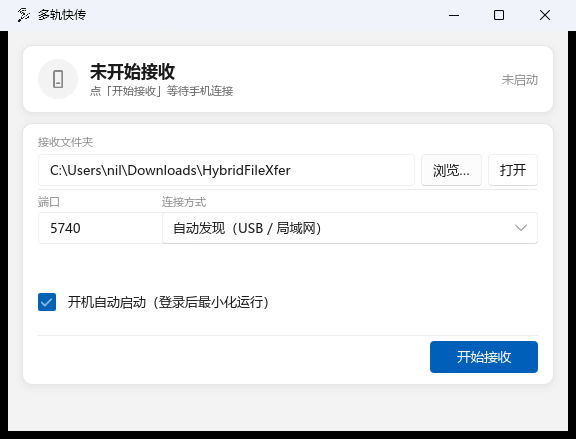
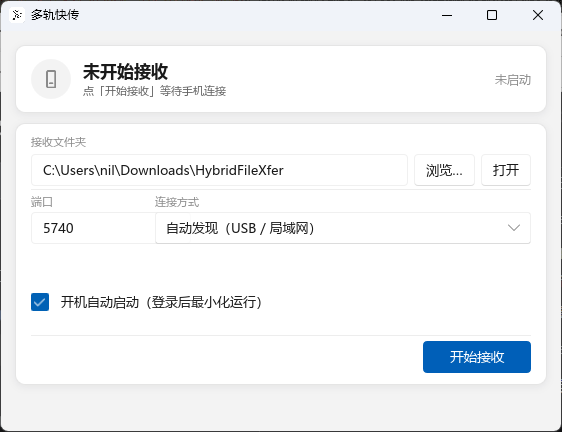
README：一键发送亮点、实机截图（裁掉状态栏）、64/32 位下载说明；接收器：图标改白底圆角、更新改为下载到下载目录（避免 dropper 误报）

diff --git a/HybridFileXfer-Receiver/src/bin/gui_slint.rs b/HybridFileXfer-Receiver/src/bin/gui_slint.rs
@@ -283,7 +283,11 @@ fn main() -> Result<(), slint::PlatformError> {
             let xfer_now = ui.get_xfer_visible();
             let want_h = 400.0
                 + if xfer_now { 130.0 } else { 0.0 }
-                + if ui.get_update_state() == 2 { 34.0 } else { 0.0 };
+                + if ui.get_update_state() == 2 || ui.get_update_state() == 5 {
+                    34.0
+                } else {
+                    0.0
+                };
             if (want_h - last_want_h).abs() > 0.5 {
                 last_want_h = want_h;
                 last_xfer_visible = xfer_now;
@@ -308,13 +312,21 @@ fn main() -> Result<(), slint::PlatformError> {
             ui.set_update_text("正在下载更新，完成后会自动重启…".into());
             let ui_weak2 = ui_weak.clone();
             std::thread::spawn(move || {
-                let result = download_and_swap();
-                if let Err(e) = result {
-                    let text = format!("更新失败：{}", e);
-                    post_ui(ui_weak2.clone(), move |ui| {
-                        ui.set_update_state(4);
-                        ui.set_update_text(text.into());
-                    });
+                match download_update() {
+                    Ok(path) => {
+                        let text = format!("已下载到下载目录，关闭本程序后替换即可：{}", path.display());
+                        post_ui(ui_weak2.clone(), move |ui| {
+                            ui.set_update_state(5);
+                            ui.set_update_text(text.into());
+                        });
+                    }
+                    Err(e) => {
+                        let text = format!("更新失败：{}", e);
+                        post_ui(ui_weak2.clone(), move |ui| {
+                            ui.set_update_state(4);
+                            ui.set_update_text(text.into());
+                        });
+                    }
                 }
             });
         });
@@ -356,6 +368,8 @@ fn parse_version(text: &str) -> Option<(u32, u32, u32)> {
 }
 
 static UPDATE_EXE_URL: std::sync::LazyLock<Mutex<String>> =
+    std::sync::LazyLock::new(|| Mutex::new(String::new()));
+static UPDATE_VERSION: std::sync::LazyLock<Mutex<String>> =
     std::sync::LazyLock::new(|| Mutex::new(String::new()));
 
 fn start_update_check(ui_weak: slint::Weak<AppWindow>) {
@@ -416,6 +430,9 @@ fn start_update_check(ui_weak: slint::Weak<AppWindow>) {
             if let Ok(mut guard) = UPDATE_EXE_URL.lock() {
                 *guard = exe_url;
             }
+            if let Ok(mut guard) = UPDATE_VERSION.lock() {
+                *guard = format!("{}.{}.{}", latest.0, latest.1, latest.2);
+            }
             let text = format!(
                 "发现新版本 v{}.{}.{}（当前 v{}.{}.{}）",
                 latest.0, latest.1, latest.2, current.0, current.1, current.2
@@ -430,7 +447,9 @@ fn start_update_check(ui_weak: slint::Weak<AppWindow>) {
     });
 }
 
-fn download_and_swap() -> Result<(), String> {
+/// 只负责把新版本下载到下载目录，然后定位到该文件；
+/// 不做“替换自身 + 重新启动”，那是杀软眼里的 dropper 行为（会被误报为木马释放器）。
+fn download_update() -> Result<PathBuf, String> {
     let url = UPDATE_EXE_URL
         .lock()
         .map(|g| g.clone())
@@ -438,37 +457,42 @@ fn download_and_swap() -> Result<(), String> {
     if url.is_empty() {
         return Err("没有可用的下载地址".into());
     }
+    let version = UPDATE_VERSION
+        .lock()
+        .map(|g| g.clone())
+        .unwrap_or_default();
 
-    let exe = std::env::current_exe().map_err(|e| e.to_string())?;
-    let dir = exe.parent().ok_or("找不到程序目录")?.to_path_buf();
-    let tmp = std::env::temp_dir().join("HybridFileXfer-Receiver.new.exe");
+    let downloads = std::env::var_os("USERPROFILE")
+        .map(|p| PathBuf::from(p).join("Downloads"))
+        .filter(|p| p.is_dir())
+        .unwrap_or_else(std::env::temp_dir);
+    let target = downloads.join(format!(
+        "HybridFileXfer-Receiver{}.exe",
+        if version.is_empty() {
+            String::new()
+        } else {
+            format!("-v{version}")
+        }
+    ));
 
     let response = ureq::get(&url)
         .timeout(Duration::from_secs(600))
         .call()
         .map_err(|e| format!("下载失败：{e}"))?;
-    {
-        let mut reader = response.into_reader();
-        let mut file = std::fs::File::create(&tmp).map_err(|e| format!("创建临时文件失败：{e}"))?;
-        std::io::copy(&mut reader, &mut file).map_err(|e| format!("写入失败：{e}"))?;
-    }
+    let mut reader = response.into_reader();
+    let mut file = std::fs::File::create(&target).map_err(|e| format!("创建文件失败：{e}"))?;
+    std::io::copy(&mut reader, &mut file).map_err(|e| format!("写入失败：{e}"))?;
+    drop(file);
 
-    let old = dir.join("HybridFileXfer-Receiver.exe.old");
-    let _ = std::fs::remove_file(&old);
-    // Windows 允许改名正在运行的 exe，但不能直接覆盖
-    std::fs::rename(&exe, &old).map_err(|e| format!("替换失败（改名）：{e}"))?;
-    if let Err(e) = std::fs::copy(&tmp, &exe) {
-        // 回滚
-        let _ = std::fs::rename(&old, &exe);
-        return Err(format!("替换失败（写入）：{e}"));
-    }
-    let _ = std::fs::remove_file(&tmp);
+    // 在资源管理器里定位到刚下载的文件
+    let _ = std::process::Command::new("explorer")
+        .arg(format!("/select,{}", target.display()))
+        .spawn();
 
-    std::process::Command::new(&exe)
-        .spawn()
-        .map_err(|e| format!("重启失败：{e}"))?;
-    std::process::exit(0);
+    Ok(target)
 }
+
+// ---------------- 工具函数 ----------------
 
 /// 字节数 -> 人类可读
 fn human(bytes: u64) -> String {
@@ -536,7 +560,10 @@ fn autostart_path() -> Option<PathBuf> {
 
 fn set_autostart(enabled: bool, exe_dir: &Path) -> io::Result<()> {
     let path = autostart_path().ok_or_else(|| {
-        io::Error::new(io::ErrorKind::NotFound, "APPDATA environment variable is missing")
+        io::Error::new(
+            io::ErrorKind::NotFound,
+            "APPDATA environment variable is missing",
+        )
     })?;
     if enabled {
         let exe = exe_dir.join("HybridFileXfer-Receiver.exe");

diff --git a/README.md b/README.md
@@ -2,7 +2,7 @@
 
 当前版本 **3.1.0** · 安卓界面基于 **Miuix 0.9** · 许可 **GPL-3.0**
 
-📥 [下载最新版本](https://github.com/yizhiruonan/HybridFileXfer/releases) ｜ 安卓 **8.0（API 26）及以上** ｜ 电脑端 Windows，**不需要 Java**
+📥 [下载最新版本](https://github.com/yizhiruonan/HybridFileXfer/releases) ｜ 安卓 **8.0（API 26）及以上** ｜ 电脑端 **Windows 10 及以上**（64 位 / 32 位都有，**不需要 Java**）
 
 多轨快传（原双轨快传）：把手机的 USB、WiFi、热点等多张网卡同时用起来，把文件传到电脑。手机与电脑点对点直连，不经过任何服务器。
 
@@ -20,6 +20,7 @@
 
 ## 功能
 
+- **一键发送到电脑**：在文件管理器里长按文件选「分享」→ 发送到电脑，或任何应用的系统分享按钮，都能直接传到电脑，**不用打开 App、不用在两端来回点**，一次设置长期有效。
 - **多通道聚合**：WiFi 自动 4 条、USB 自动 2 条通道，每条可单独开关
 - **分享面板直发**：任意文件管理器里分享到「发送到电脑」，直接写进电脑的接收文件夹
 - **插线自动连接**：接收器通过 adb 端口转发拉起手机端服务，插上数据线 1~2 秒建立连接
@@ -55,7 +56,7 @@
 
 ### 电脑端
 
-1. 下载运行 `HybridFileXfer-Receiver.exe`（图形界面版；命令行版是 `-cli.exe`）
+1. 下载运行 `HybridFileXfer-Receiver.exe`（64 位图形界面版；32 位用 `HybridFileXfer-Receiver-x86.exe`，命令行版用 `-cli.exe`）
 2. 点「浏览…」选接收文件夹，点 **开始接收**
 3. 手机端显示「已连接电脑」后，直接分享文件即可
 
